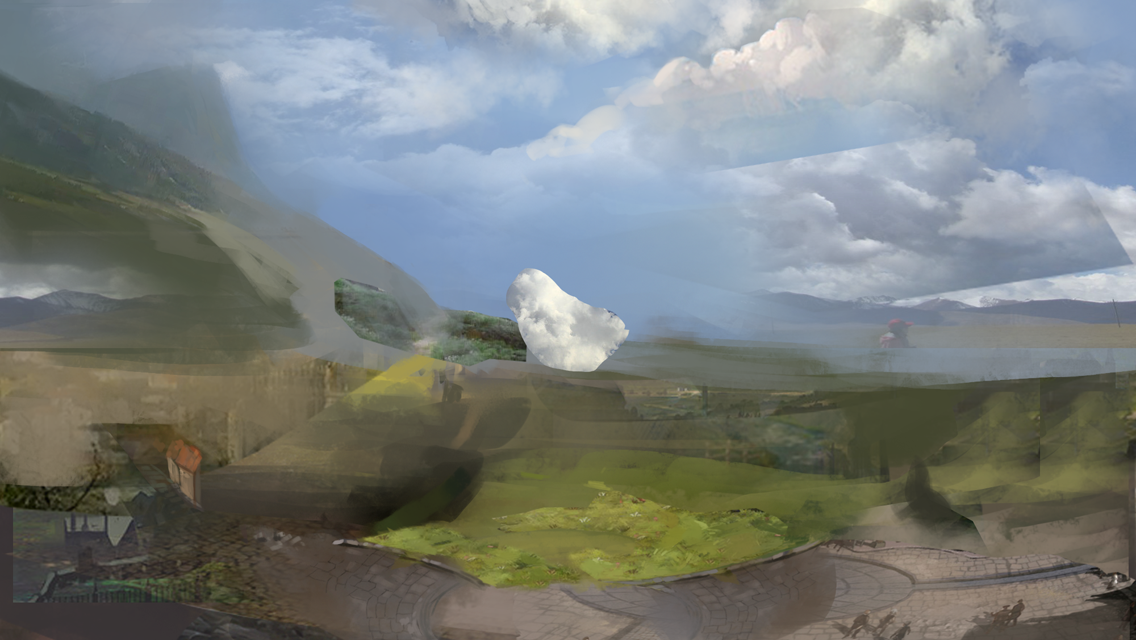
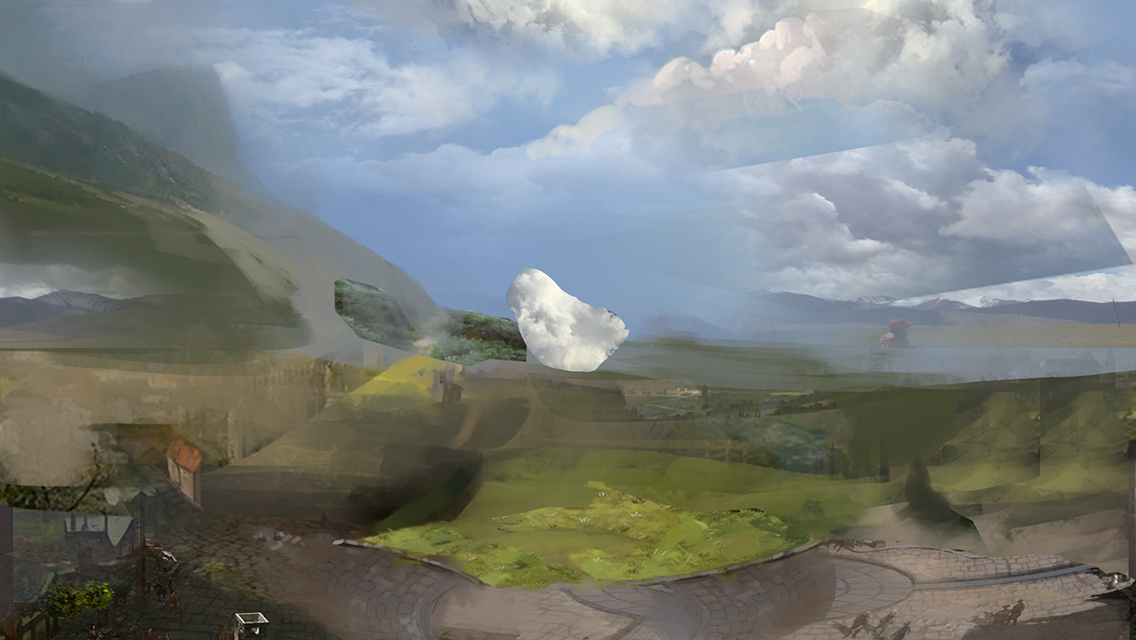
Add storeroom images and tips image.

Changed region(s): [[0.0, 0.8438, 0.2773, 1.0]]

diff --git a/src/com/fight2/scene/MainScene.java b/src/com/fight2/scene/MainScene.java
@@ -55,10 +55,16 @@ public class MainScene extends BaseScene {
     private final Map<Sprite, Sprite> buttonSprites = new HashMap<Sprite, Sprite>();
 
     private final Font mFont;
-    private final Text summonText;
-    private final Text arenaText;
-    private final Text campText;
-    private final List<Text> tipTexts = new ArrayList<Text>();
+    private final IEntity summonTip;
+    private final IEntity arenaTip;
+    private final IEntity campTip;
+    private final IEntity gateTip;
+    private final IEntity storeroomTip;
+    private final IEntity guildTip;
+    private final IEntity congressTip;
+    private final IEntity hotelTip;
+    private final IEntity mailBoxTip;
+    private final List<IEntity> tips = new ArrayList<IEntity>();
 
     private final PartyInfo myPartyInfo = GameUserSession.getInstance().getPartyInfo();
     private final Party[] myParties = myPartyInfo.getParties();
@@ -71,12 +77,61 @@ public class MainScene extends BaseScene {
     public MainScene(final GameActivity activity) throws IOException {
         super(activity);
         this.mFont = ResourceManager.getInstance().getFont(FontEnum.Main);
-        summonText = new Text(this.simulatedLeftX + 570, 25, mFont, "召唤石", vbom);
-        arenaText = new Text(this.simulatedLeftX + 670, 345, mFont, "竞技场", vbom);
-        campText = new Text(this.simulatedLeftX + 720, 200, mFont, "训练营", vbom);
-        tipTexts.add(summonText);
-        tipTexts.add(arenaText);
-        tipTexts.add(campText);
+        final float tipTextX = TextureEnum.MAIN_TIPS.getWidth() * 0.5f;
+        final float tipTextY = TextureEnum.MAIN_TIPS.getHeight() * 0.5f;
+        final Text summonText = new Text(tipTextX, tipTextY, mFont, "召唤石", vbom);
+        summonText.setColor(0XFF8E2E11);
+        summonTip = createALBImageSprite(TextureEnum.MAIN_TIPS, 510, 25);
+        summonTip.attachChild(summonText);
+        tips.add(summonTip);
+
+        final Text arenaText = new Text(tipTextX, tipTextY, mFont, "竞技场", vbom);
+        arenaText.setColor(0XFF8E2E11);
+        arenaTip = createALBImageSprite(TextureEnum.MAIN_TIPS, 630, 365);
+        arenaTip.attachChild(arenaText);
+        tips.add(arenaTip);
+
+        final Text campText = new Text(tipTextX, tipTextY, mFont, "训练营", vbom);
+        campText.setColor(0XFF8E2E11);
+        campTip = createALBImageSprite(TextureEnum.MAIN_TIPS, 650, 210);
+        campTip.attachChild(campText);
+        tips.add(campTip);
+
+        final Text gateText = new Text(tipTextX, tipTextY, mFont, "出城", vbom);
+        gateText.setColor(0XFF8E2E11);
+        gateTip = createALBImageSprite(TextureEnum.MAIN_TIPS, 360, 438);
+        gateTip.attachChild(gateText);
+        tips.add(gateTip);
+
+        final Text storeroomText = new Text(tipTextX, tipTextY, mFont, "仓库", vbom);
+        storeroomText.setColor(0XFF8E2E11);
+        storeroomTip = createALBImageSprite(TextureEnum.MAIN_TIPS, 40, 230);
+        storeroomTip.attachChild(storeroomText);
+        tips.add(storeroomTip);
+
+        final Text guildText = new Text(tipTextX, tipTextY, mFont, "公会", vbom);
+        guildText.setColor(0XFF8E2E11);
+        guildTip = createALBImageSprite(TextureEnum.MAIN_TIPS, 960, 300);
+        guildTip.attachChild(guildText);
+        tips.add(guildTip);
+
+        final Text congressText = new Text(tipTextX, tipTextY, mFont, "国会", vbom);
+        congressText.setColor(0XFF8E2E11);
+        congressTip = createALBImageSprite(TextureEnum.MAIN_TIPS, 800, 500);
+        congressTip.attachChild(congressText);
+        tips.add(congressTip);
+
+        final Text hotelText = new Text(tipTextX, tipTextY, mFont, "酒馆", vbom);
+        hotelText.setColor(0XFF8E2E11);
+        hotelTip = createALBImageSprite(TextureEnum.MAIN_TIPS, 290, 285);
+        hotelTip.attachChild(hotelText);
+        tips.add(hotelTip);
+
+        final Text mailBoxText = new Text(tipTextX, tipTextY, mFont, "信箱", vbom);
+        mailBoxText.setColor(0XFF8E2E11);
+        mailBoxTip = createALBImageSprite(TextureEnum.MAIN_TIPS, 990, 130);
+        mailBoxTip.attachChild(mailBoxText);
+        tips.add(mailBoxTip);
 
         init();
     }
@@ -170,8 +225,12 @@ public class MainScene extends BaseScene {
         this.attachChild(mailBoxFcsSprite);
         buttonSprites.put(mailBoxSprite, mailBoxFcsSprite);
 
-        final Sprite houseLeftSprite = createALBImageSprite(TextureEnum.MAIN_HOUSE_LEFT, 0, 0);
-        this.attachChild(houseLeftSprite);
+        final Sprite storeroomSprite = createALBImageSprite(TextureEnum.MAIN_STOREROOM, 0, 0);
+        this.attachChild(storeroomSprite);
+        final Sprite storeroomFcsSprite = createALBImageSprite(TextureEnum.MAIN_STOREROOM_FCS, 0, 0);
+        storeroomFcsSprite.setVisible(false);
+        this.attachChild(storeroomFcsSprite);
+        buttonSprites.put(storeroomSprite, storeroomFcsSprite);
 
         // final Sprite sunshineSprite = createImageSprite(TextureEnum.MAIN_SUNSHINE, 15);
         // this.attachChild(sunshineSprite);
@@ -207,9 +266,9 @@ public class MainScene extends BaseScene {
         final Sprite playerInfoStaminaBoxSprite = createALBImageSprite(TextureEnum.MAIN_PLAYER_INFO_STAMINA_BOX, 100, 83);
         playerInfoSprite.attachChild(playerInfoStaminaBoxSprite);
 
-        for (final Text tipText : tipTexts) {
-            tipText.setVisible(false);
-            this.attachChild(tipText);
+        for (final IEntity tip : tips) {
+            tip.setVisible(false);
+            this.attachChild(tip);
         }
 
         this.setOnSceneTouchListener(new IOnSceneTouchListener() {
@@ -219,8 +278,8 @@ public class MainScene extends BaseScene {
                 final float y = pSceneTouchEvent.getY();
                 resetButtons();
                 if (pSceneTouchEvent.isActionDown() || pSceneTouchEvent.isActionMove()) {
-                    for (final Text tipText : tipTexts) {
-                        tipText.setVisible(true);
+                    for (final IEntity tip : tips) {
+                        tip.setVisible(true);
                     }
                     if (checkContains(MAIL_VERTICES, x, y)) {
                         focusSprite(mailBoxSprite);
@@ -241,11 +300,11 @@ public class MainScene extends BaseScene {
                     } else if (checkContains(GATE_VERTICES, x, y)) {
                         focusSprite(gateSprite);
                     } else if (checkContains(STOREROOM_VERTICES, x, y)) {
-                        // focusSprite(gateSprite);
+                        focusSprite(storeroomSprite);
                     }
                 } else if (pSceneTouchEvent.isActionUp()) {
-                    for (final Text tipText : tipTexts) {
-                        tipText.setVisible(false);
+                    for (final IEntity tip : tips) {
+                        tip.setVisible(false);
                     }
 
                     if (checkContains(MAIL_VERTICES, x, y)) {
@@ -277,7 +336,7 @@ public class MainScene extends BaseScene {
                         unfocusSprite(gateSprite);
                         ResourceManager.getInstance().setCurrentScene(SceneEnum.Quest);
                     } else if (checkContains(STOREROOM_VERTICES, x, y)) {
-                        // unfocusSprite(gateSprite);
+                        unfocusSprite(storeroomSprite);
                         ResourceManager.getInstance().setCurrentScene(SceneEnum.Storeroom);
                     }
                 }
@@ -294,6 +353,7 @@ public class MainScene extends BaseScene {
                 unfocusSprite(arenaSprite);
                 unfocusSprite(congressSprite);
                 unfocusSprite(gateSprite);
+                unfocusSprite(storeroomSprite);
             }
         });
 

diff --git a/src/com/fight2/scene/GuildScene.java b/src/com/fight2/scene/GuildScene.java
@@ -62,7 +62,7 @@ public class GuildScene extends BaseScene {
     private final static String[] HEADBAR_GUILD_POLL = { "NO.", "名称", "身价", "" };
     private final static float[] HBW_GUILD_POLL = { 0.1f, 0.3f, 0.3f, 0.3f };
     private final static String[] HEADBAR_GUILD_BID = { "NO.", "物品", "当前出价", "" };
-    private final static float[] HBW_GUILD_BID = { 0.1f, 0.3f, 0.2f, 0.4f };
+    private final static float[] HBW_GUILD_BID = { 0.1f, 0.3f, 0.3f, 0.3f };
     private final Sprite frame;
 
     private final Font buttonFont;
@@ -591,8 +591,14 @@ public class GuildScene extends BaseScene {
             tips.setX((HBW_GUILD_BID[0] + HBW_GUILD_BID[1] + HBW_GUILD_BID[2] * 0.5f) * SCROLL_ZONE_WIDTH);
             row.attachChild(tips);
             tips.setVisible(bid.isMyBid());
+            // countDown
+            final Text countDown = new Text(25, 140, tipsFont, "剩余2天", vbom);
+            countDown.setColor(0XFFF8B451);
+            countDown.setX((HBW_GUILD_BID[0] + HBW_GUILD_BID[1] + HBW_GUILD_BID[2] * 0.5f) * SCROLL_ZONE_WIDTH);
+            row.attachChild(countDown);
             // Bid button
             final F2ButtonSprite bidButton = createACF2CommonButton(650, rowY, "出价");
+            bidButton.setX((HBW_GUILD_BID[0] + HBW_GUILD_BID[1] + HBW_GUILD_BID[2] + HBW_GUILD_BID[3] * 0.5f) * SCROLL_ZONE_WIDTH);
             row.attachChild(bidButton);
             this.registerTouchArea(bidButton);
             bidButton.setOnClickListener(new F2OnClickListener() {

diff --git a/src/com/fight2/constant/TextureEnum.java b/src/com/fight2/constant/TextureEnum.java
@@ -51,7 +51,6 @@ public enum TextureEnum {
     MAIN_HOTEL("images/main_hotel.png", 270, 234),
     MAIN_HOTEL_FCS("images/main_hotel_fcs.png", 270, 234),
     MAIN_HOUSE_CENTER("images/main_house_center.png", 1136, 640),
-    MAIN_HOUSE_LEFT("images/main_house_left.png", 1136, 640),
     MAIN_MAIL_BOX("images/main_mail_box.png", 389, 267),
     MAIN_MAIL_BOX_FCS("images/main_mail_box_fcs.png", 389, 267),
     MAIN_PEOPLE("images/main_people.png", 1136, 640),
@@ -63,6 +62,9 @@ public enum TextureEnum {
     MAIN_TRAINING_CAMP("images/main_training_camp.png", 387, 219),
     MAIN_TRAINING_CAMP_FCS("images/main_training_camp_fcs.png", 387, 219),
     MAIN_TREE("images/main_tree.png", 1136, 640),
+    MAIN_STOREROOM("images/main_storeroom.png", 201, 441),
+    MAIN_STOREROOM_FCS("images/main_storeroom_fcs.png", 201, 441),
+    MAIN_TIPS("images/main_tips_2.png", 120, 60),
     MAIN_PLAYER_INFO("images/main_player_info.png", 308, 138),
     MAIN_PLAYER_INFO_STAMINA("images/main_player_info_stamina.png", 160, 26),
     MAIN_PLAYER_INFO_STAMINA_BOX("images/main_player_info_stamina_box.png", 184, 35),
